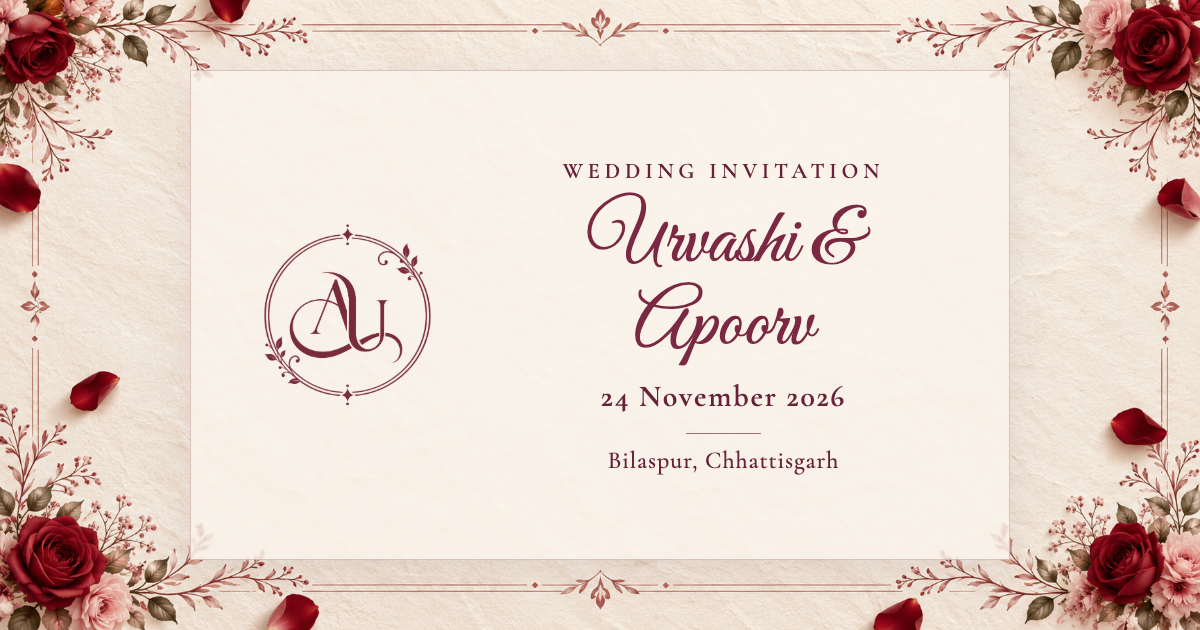
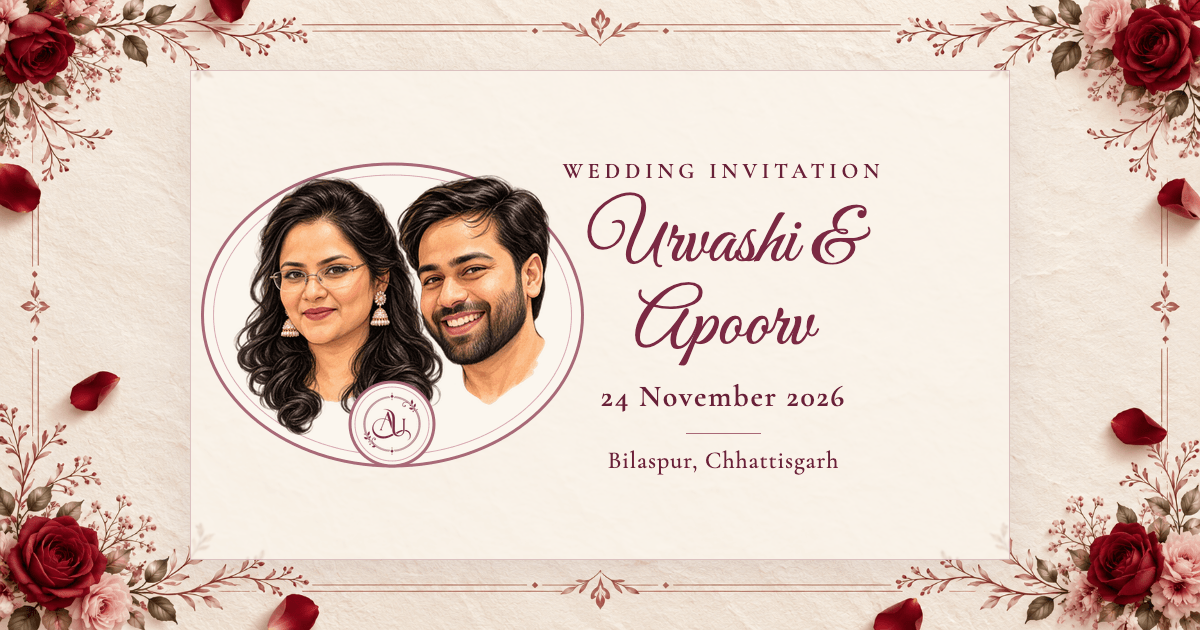
new changes

Changed region(s): [[0.1542, 0.2413, 0.4933, 0.754], [0.0308, 0.0, 0.0617, 0.0302]]

diff --git a/app/wedding.config.ts b/app/wedding.config.ts
@@ -22,7 +22,7 @@ export const weddingConfig = {
       brideName: "Urvashi",
       groomName: "Apoorv",
       welcomeText: "We are honoured to welcome you to the wedding ceremony of",
-      hashtag: "#ApUrvi",
+      hashtag: "#UrvashiGotHerApoorv",
       scrollLabel: "Scroll",
     },
 
@@ -112,7 +112,7 @@ export const weddingConfig = {
   site: {
     // Change this if the GitHub organization or repository name changes.
     url: "https://urvashi-apoorv.github.io/wedding-invitation/",
-    socialPreviewImage: "og.png",
+    socialPreviewImage: "og-v3.png",
     socialPreviewAlt: "Urvashi and Apoorv wedding invitation",
   },
 

diff --git a/app/layout.tsx b/app/layout.tsx
@@ -21,6 +21,8 @@ export const metadata: Metadata = {
     locale: "en_IN",
     images: [{
       url: socialPreviewImageUrl,
+      secureUrl: socialPreviewImageUrl,
+      type: "image/png",
       width: 1200,
       height: 630,
       alt: weddingConfig.site.socialPreviewAlt,
